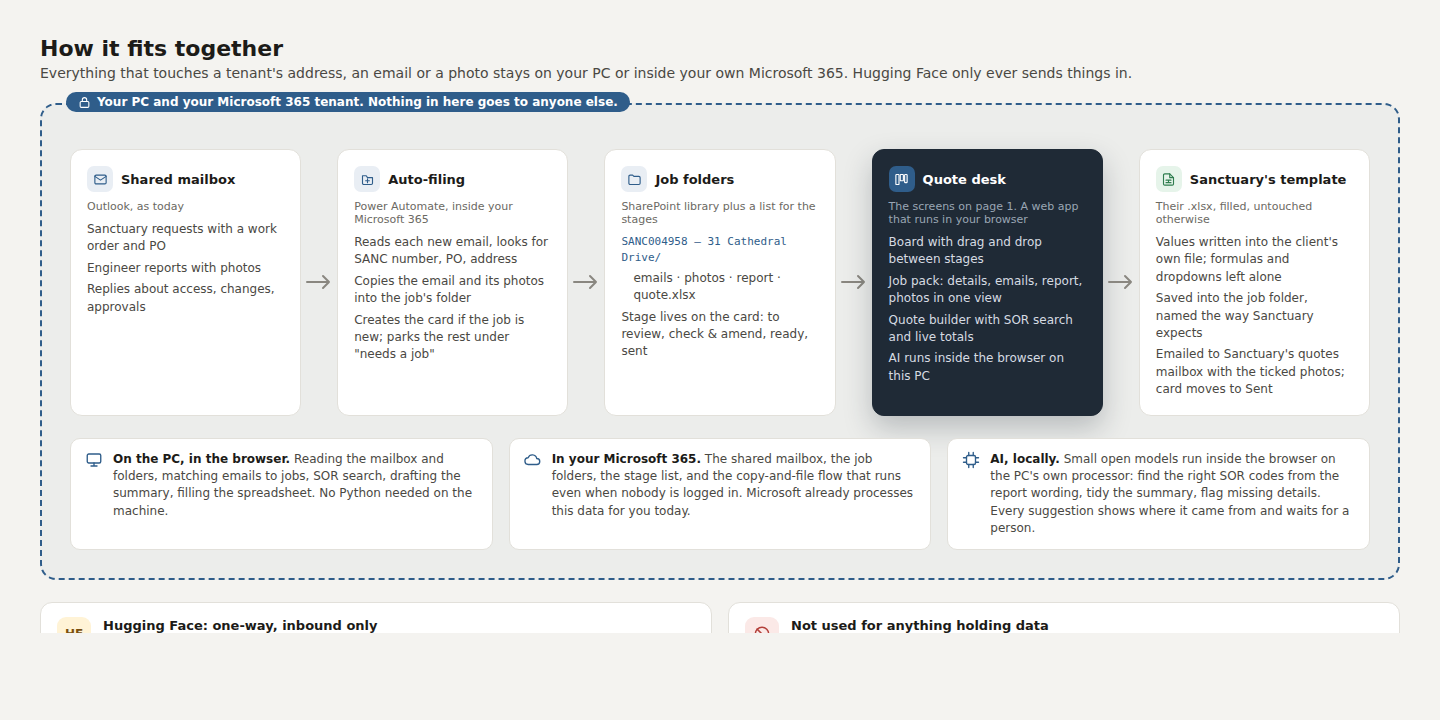
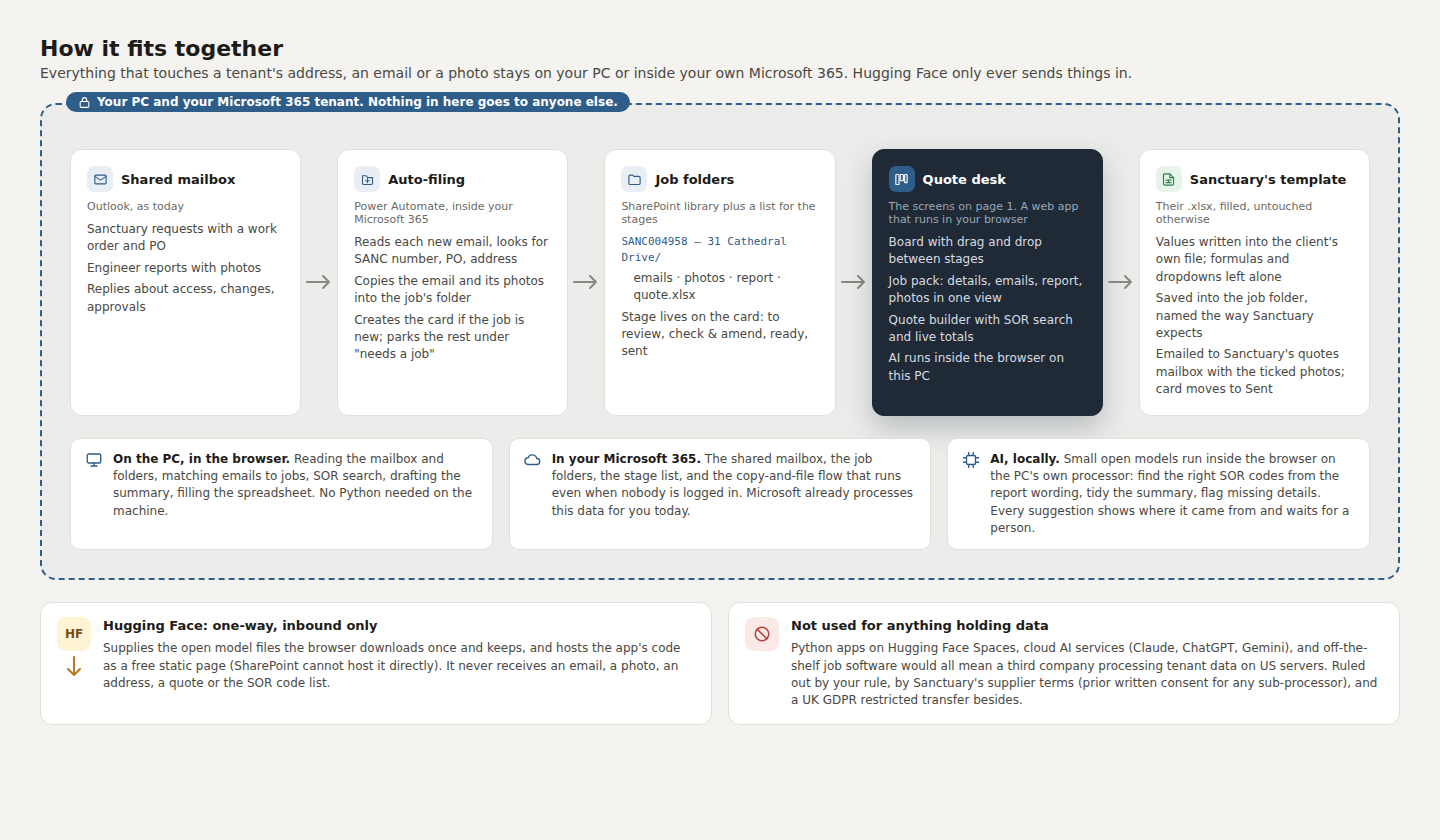
Give the how-it-fits-together artboard room for its footer boxes
Claude-Session: https://claude.ai/code/session_01JC8NhicPqWfpPmi8umYne4

diff --git a/docs/design/Flow.dc.html b/docs/design/Flow.dc.html
@@ -13,7 +13,7 @@
     a { color: #2f5d8a; } a:hover { color: #244a70; }
   </style>
 </helmet>
-<div style="width: 1440px; height: 720px; background: #f4f3f0; padding: 36px 40px; box-sizing: border-box; display: flex; flex-direction: column; gap: 22px;">
+<div style="width: 1440px; height: 840px; background: #f4f3f0; padding: 36px 40px; box-sizing: border-box; display: flex; flex-direction: column; gap: 22px;">
 
   <div style="display: flex; flex-direction: column; gap: 4px;">
     <span style="font-size: 22px; font-weight: 600;">How it fits together</span>
